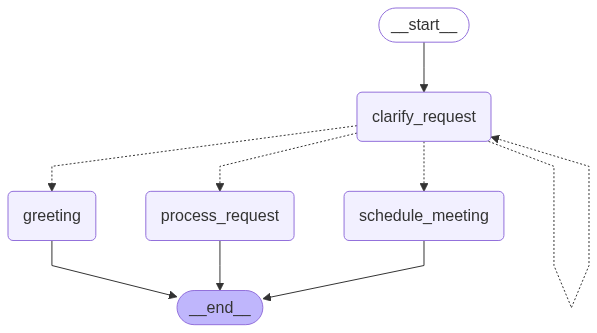
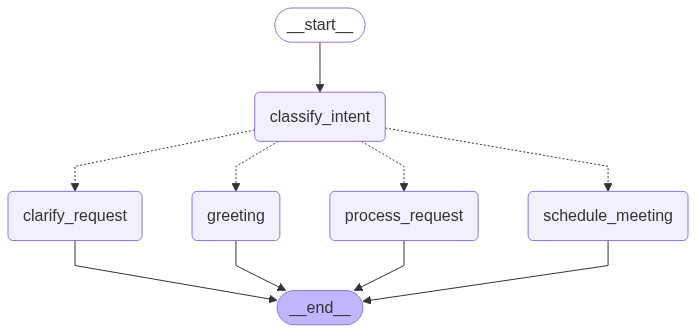
feat: add classify_intent_node edge

diff --git a/src/meetingmuse/graph.py b/src/meetingmuse/graph.py
@@ -9,6 +9,7 @@ from langgraph.graph import StateGraph, START, END
 from meetingmuse.models.node import NodeName
 from meetingmuse.models.state import CalendarBotState
 from meetingmuse.nodes.clarify_request_node import ClarifyRequestNode
+from meetingmuse.nodes.classify_intent_node import ClassifyIntentNode
 from meetingmuse.nodes.greeting_node import GreetingNode
 from meetingmuse.nodes.process_request_node import ProcessRequestNode
 from meetingmuse.nodes.schedule_meeting_node import ScheduleMeetingNode
@@ -22,6 +23,7 @@ class GraphBuilder:
         clarify_request_node: ClarifyRequestNode,
         schedule_meeting_node: ScheduleMeetingNode,
         process_request_node: ProcessRequestNode,
+        classify_intent_node: ClassifyIntentNode,
         conversation_router: ConversationRouter,
     ) -> None:
         self.state = state
@@ -29,19 +31,21 @@ class GraphBuilder:
         self.clarify_request_node = clarify_request_node
         self.schedule_meeting_node = schedule_meeting_node
         self.process_request_node = process_request_node
+        self.classify_intent_node = classify_intent_node
         self.conversation_router = conversation_router
 
     def build(self) -> StateGraph:
         graph_builder = StateGraph(self.state)
         graph_builder.add_node(self.greeting_node.node_name, self.greeting_node.node_action)
+        graph_builder.add_node(self.classify_intent_node.node_name, self.classify_intent_node.node_action)
         graph_builder.add_node(self.clarify_request_node.node_name, self.clarify_request_node.node_action)
         graph_builder.add_node(self.schedule_meeting_node.node_name, self.schedule_meeting_node.node_action)
         graph_builder.add_node(self.process_request_node.node_name, self.process_request_node.node_action)
 
-        graph_builder.add_edge(START, self.clarify_request_node.node_name)
+        graph_builder.add_edge(START, self.classify_intent_node.node_name)
         # add conditional route using the routing service
         graph_builder.add_conditional_edges(
-            self.clarify_request_node.node_name,
+            self.classify_intent_node.node_name,
             self.conversation_router.route,
             {
                 NodeName.GREETING: NodeName.GREETING,

diff --git a/tests/run_node_with_graph.py b/tests/run_node_with_graph.py
@@ -73,6 +73,7 @@ def create_graph_with_all_nodes():
         schedule_meeting_node=schedule_meeting_node,
         process_request_node=process_request_node,
         conversation_router=conversation_router,
+        classify_intent_node=classify_intent_node,
     )
     return graph_builder
 

diff --git a/src/meetingmuse/models/node.py b/src/meetingmuse/models/node.py
@@ -6,6 +6,7 @@ class NodeName(StrEnum):
     GREETING = "greeting"
     SCHEDULE_MEETING = "schedule_meeting"
     PROCESS_REQUEST = "process_request"
+    CLASSIFY_INTENT = "classify_intent"
     
 
 
